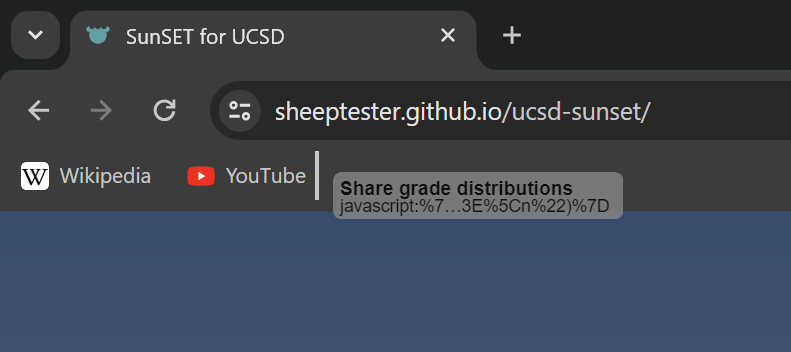
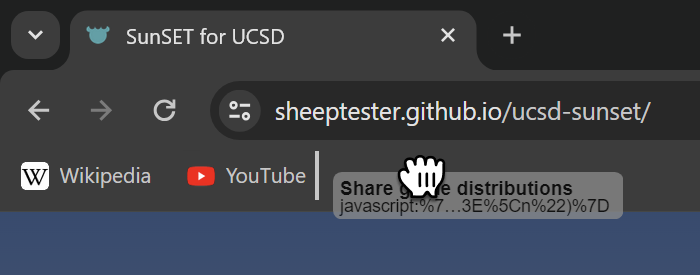
Add cursors to the images

diff --git a/src/components/App.tsx b/src/components/App.tsx
@@ -141,6 +141,10 @@ export function App ({ sourceUrl }: AppProps) {
               This is best done on desktop. Adding bookmarklets on mobile can be
               difficult.
             </p>
+            <img
+              src='./add-to-bookmarks-bar.png'
+              alt='The link being dragged to the bookmarks bar.'
+            />
           </li>
           <li>
             <p>
@@ -153,6 +157,10 @@ export function App ({ sourceUrl }: AppProps) {
           </li>
           <li>
             <p>Click on the bookmark.</p>
+            <img
+              src='./click-bookmark.png'
+              alt='The bookmark on the bookmarks bar being clicked while on Academic History.'
+            />
           </li>
         </ol>
       </Modal>

diff --git a/src/styles.css b/src/styles.css
@@ -229,3 +229,6 @@ pre {
   white-space: pre-wrap;
   border: 1px solid currentColor;
 }
+img {
+  max-width: 100%;
+}
